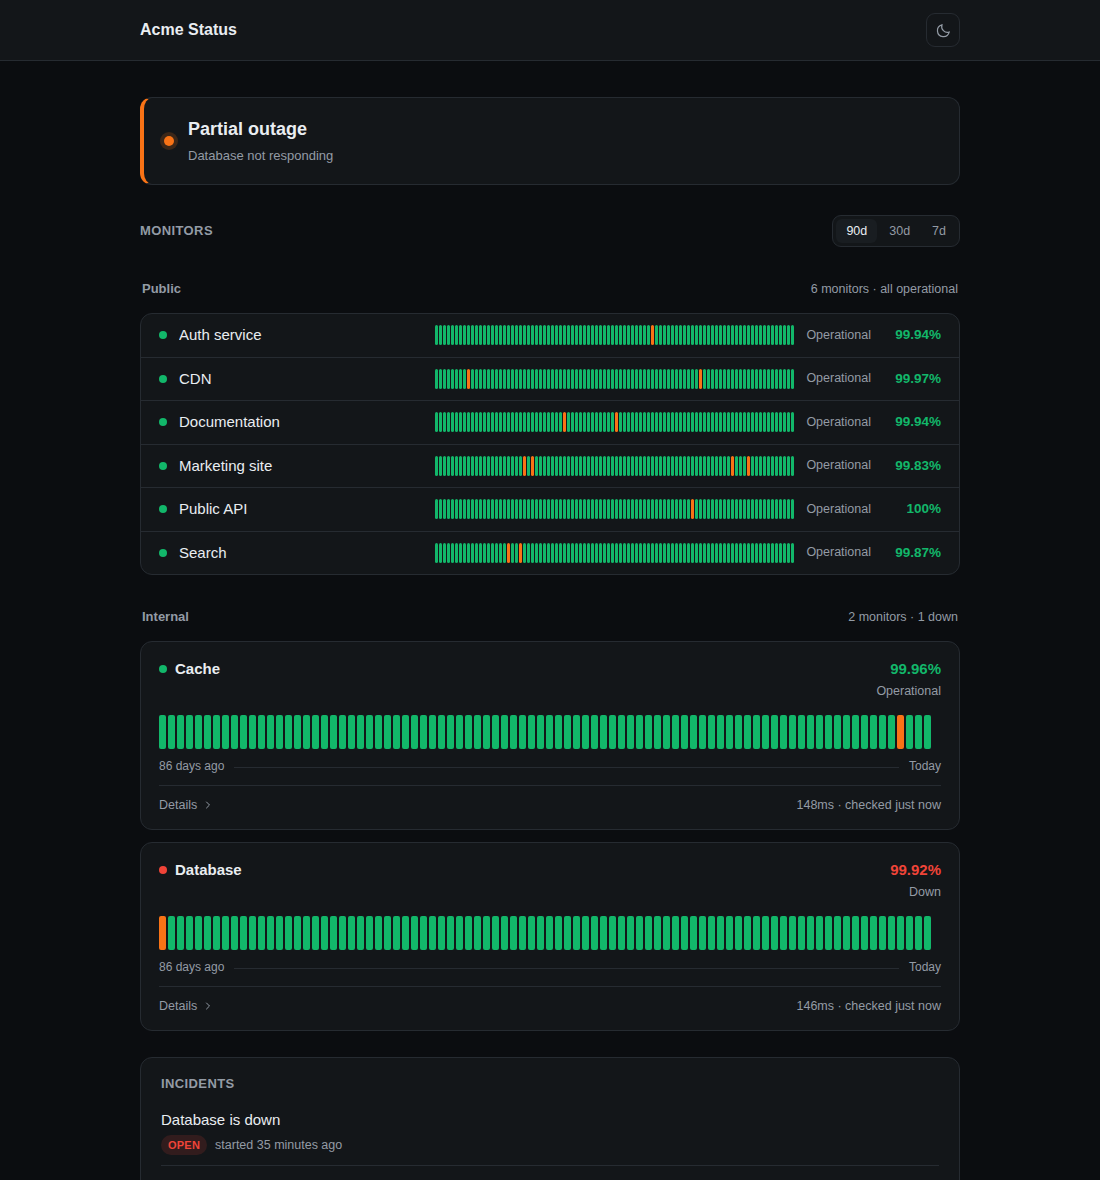
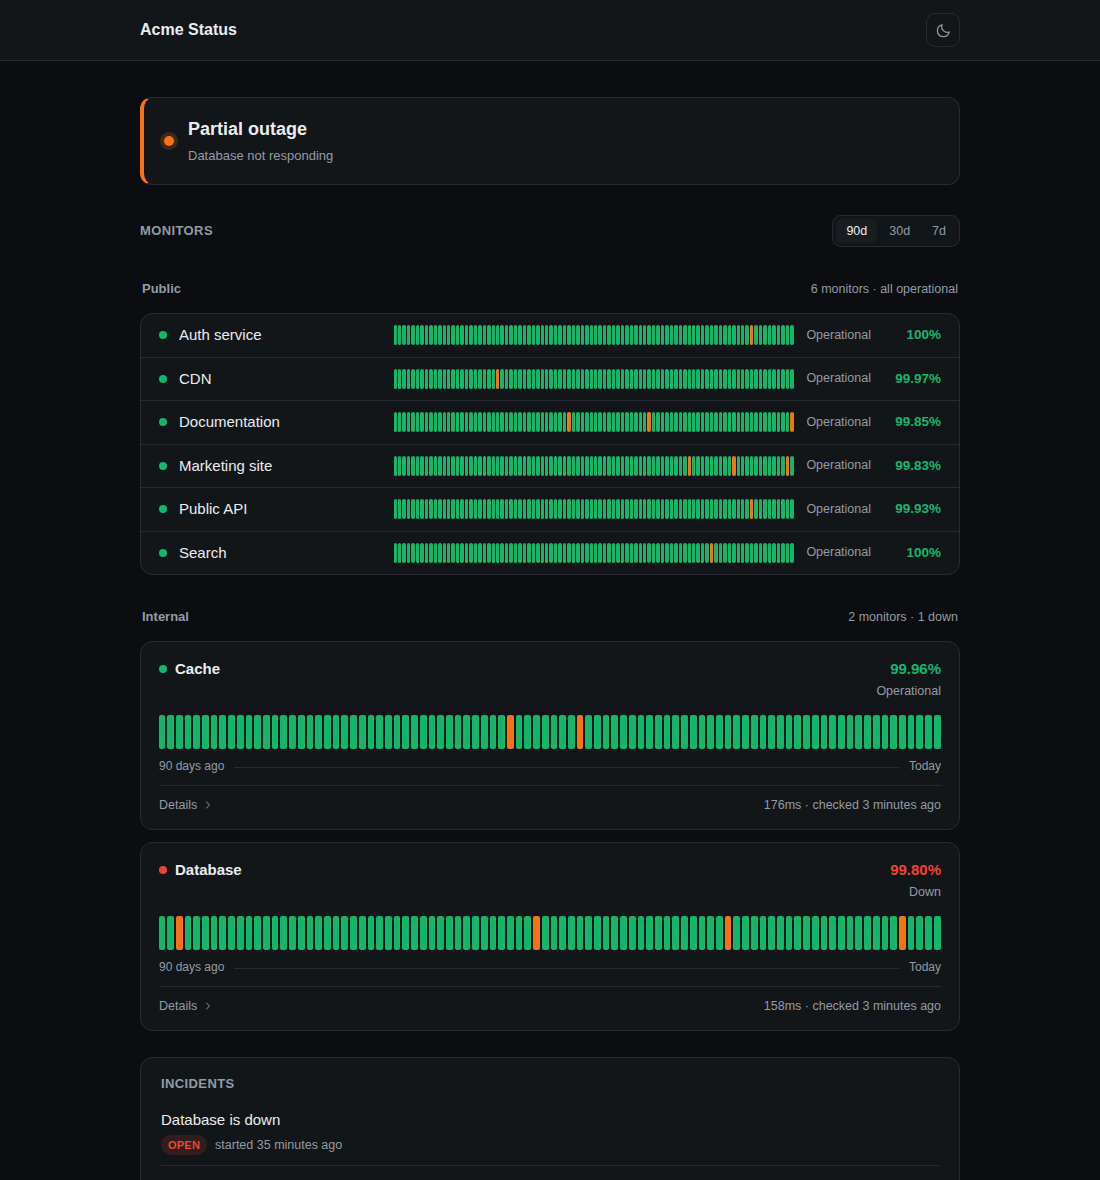
fix: strips are measured, not guessed, so nothing is clipped
A compact strip was sized from a fraction of the list width and a card strip
from that width minus a constant. Neither matches the room the row actually
leaves, so the compact strip overflowed its box and was clipped on the left,
by 38px at 90 days and 44px at 7 days, while a card strip ran 13px past the
card. Both are now filled after layout, from their own measured width.

Whole pixel bars rarely divide a width exactly, so the remainder is spread a
pixel at a time across the strip: gaps stay identical, neighbouring bars
differ by at most a pixel, and the strip fills its box exactly at every range.

diff --git a/site/app.js b/site/app.js
@@ -96,30 +96,32 @@ const rangeKey = () => (range === 7 ? 'week' : range === 30 ? 'month' : 'quarter
 // derived from them. The cell grows when the range caps the count, so a strip
 // still reaches the end of the space it was given instead of stopping short.
 function stripLayout(width, minBar, gap, lock = 0) {
-  // `lock` fixes the number of days, whatever the range buttons say. The bars
-  // then narrow to fit, and their gaps narrow with them, or a cramped strip
-  // ends up mostly gap.
-  if (lock) {
-    const cell = Math.max(2, Math.floor((width + gap) / lock));
-    return { cell, gap: cell >= 4 ? gap : 1, count: lock };
-  }
-  const minCell = minBar + gap;
-  const wanted = Math.max(7, Math.min(range, Math.floor((width + gap) / minCell)));
-  const cell = Math.max(minCell, Math.round((width + gap) / wanted));
-  return { cell, gap, count: Math.max(7, Math.min(wanted, Math.floor((width + gap) / cell))) };
+  // `lock` fixes the number of days, whatever the range buttons say; otherwise
+  // the range decides, limited by what the width can hold. The cell is whole
+  // pixels, and the gap narrows with it, or a cramped strip is mostly gap.
+  const count = lock || Math.max(7, Math.min(range, Math.floor((width + gap) / (minBar + gap))));
+  const cell = Math.max(lock ? 2 : minBar + gap, Math.floor((width + gap) / count));
+  return { cell, gap: cell >= 4 ? gap : 1, count };
 }
 
-// Bars are laid out on whole pixels. Letting flex share the space instead gives
-// them fractional widths, and rounding those to device pixels is what made the
-// spacing look uneven every few days.
-function renderBars(monitor, width = monitorsEl.clientWidth - 40, minBar = 3, gap = 2, lock = 0) {
-  const bars = el('div', 'bars');
+// Fills an existing strip, so a row can be measured first and filled after.
+function fillBars(bars, monitor, width, minBar = 3, gap = 2, lock = 0) {
   const layout = stripLayout(width, minBar, gap, lock);
-  bars.style.setProperty('--bar', `${layout.cell - layout.gap}px`);
+  const base = layout.cell - layout.gap;
+  bars.style.setProperty('--bar', `${base}px`);
   bars.style.setProperty('--gap', `${layout.gap}px`);
+  bars.replaceChildren();
+
+  // Whole pixel bars rarely divide the width exactly. The remainder is spread
+  // one pixel at a time across the strip, so it fills its space with even gaps
+  // instead of stopping short or being clipped.
+  const spare = Math.max(0, Math.floor(width) - (layout.count * layout.cell - layout.gap));
   const days = monitor.days.slice(-layout.count);
-  for (const day of days) {
+  days.forEach((day, index) => {
     const bar = el('div', `bar bar-${day.state}`);
+    const extra =
+      Math.floor(((index + 1) * spare) / layout.count) - Math.floor((index * spare) / layout.count);
+    if (extra) bar.style.flex = `0 0 ${base + extra}px`;
     bar.addEventListener('mouseenter', (event) => {
       const ratio = day.checks ? ((day.checks - day.down) / day.checks) * 100 : null;
       showTooltip(event, [
@@ -135,10 +137,15 @@ function renderBars(monitor, width = monitorsEl.clientWidth - 40, minBar = 3, ga
     });
     bar.addEventListener('mouseleave', hideTooltip);
     bars.append(bar);
-  }
+  });
+  return days.length;
+}
 
+function renderBars(monitor, width = monitorsEl.clientWidth - 40, minBar = 3, gap = 2, lock = 0) {
+  const bars = el('div', 'bars');
+  const shown = fillBars(bars, monitor, width, minBar, gap, lock);
   const scale = el('div', 'scale');
-  scale.append(el('span', null, `${days.length} days ago`), el('span'), el('span', null, 'Today'));
+  scale.append(el('span', null, `${shown} days ago`), el('span'), el('span', null, 'Today'));
   return [bars, scale];
 }
 
@@ -475,7 +482,13 @@ function renderCard(monitor) {
   right.append(el('div', 'card-uptime', formatUptime(monitor.uptime[rangeKey()])));
   right.append(el('div', 'card-sub', STATUS_TEXT[monitor.status] || monitor.status));
   head.append(left, right);
-  card.append(head, ...renderBars(monitor));
+
+  const bars = el('div', 'bars');
+  const scale = el('div', 'scale');
+  const label = el('span');
+  scale.append(label, el('span'), el('span', null, 'Today'));
+  card.append(head, bars, scale);
+  registerStrip(bars, monitor, 2, label);
 
   const footer = el('div', 'card-footer');
   const more = el('span', 'card-more');
@@ -530,16 +543,33 @@ function summarize(monitors) {
   return parts.join(' · ');
 }
 
+// Strips are filled once the page has been laid out, because how much room
+// they get depends on what sits beside them. Guessing at it is what left them
+// clipped in a compact row and overflowing a card.
+const pendingStrips = [];
+
+function registerStrip(bars, monitor, gap, label = null) {
+  pendingStrips.push({ bars, monitor, gap, label });
+}
+
+function fillPendingStrips() {
+  for (const { bars, monitor, gap, label } of pendingStrips.splice(0)) {
+    const shown = fillBars(bars, monitor, bars.clientWidth, 3, gap);
+    if (label) label.textContent = `${shown} days ago`;
+  }
+}
+
 function renderCompactRow(monitor) {
   const row = el('div', 'compact-row');
   row.style.setProperty('--status', `var(--${monitor.status === 'none' ? 'none' : monitor.status})`);
   row.append(el('span', 'dot'), el('span', 'compact-name', monitor.name));
 
-  // The row is narrower than a card, so the strip is sized for what is left
-  // once the name, status and figure have taken their share.
-  const [bars] = renderBars(monitor, Math.max(120, monitorsEl.clientWidth * 0.45), 3, 1);
-  bars.classList.add('bars-compact');
+  // How much room the strip gets depends on the name, status and figure beside
+  // it, which is only known once the row is laid out. It is filled afterwards
+  // rather than guessed at, which is what used to leave it clipped.
+  const bars = el('div', 'bars bars-compact');
   row.append(bars);
+  registerStrip(bars, monitor, 1);
 
   row.append(el('span', 'compact-sub', STATUS_TEXT[monitor.status] || monitor.status));
   row.append(el('span', 'compact-uptime', formatUptime(monitor.uptime[rangeKey()])));
@@ -583,6 +613,7 @@ function renderMonitors() {
     }
     renderGroup(group, monitors);
   }
+  fillPendingStrips();
 }
 
 function computeOverall(monitors) {

diff --git a/site/style.css b/site/style.css
@@ -348,7 +348,7 @@ main.shell {
 }
 
 .compact-name {
-  flex: 1 1 auto;
+  flex: 0 1 26%;
   min-width: 88px;
   font-weight: 500;
   overflow: hidden;
@@ -360,7 +360,7 @@ main.shell {
    shrink and clip its oldest days rather than push into the status and the
    figure beside it. */
 .bars.bars-compact {
-  flex: 0 1 auto;
+  flex: 1 1 0;
   height: 20px;
   margin: 0;
   min-width: 0;
